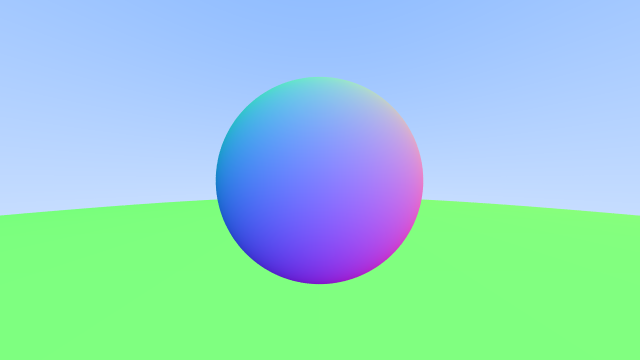
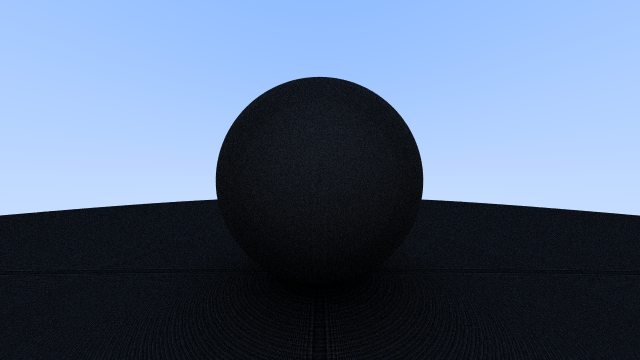
Implement random diffuse

diff --git a/src/main.rs b/src/main.rs
@@ -2,10 +2,9 @@ use std::fs::File;
 use std::io::BufWriter;
 use std::path::Path;
 
-use hooray::{Camera, Color, Point3, Sphere, World};
+use hooray::*;
 
 use indicatif::ProgressBar;
-use rand::random; // TODO: seeding
 
 fn main() {
     // image dimensions
@@ -13,6 +12,7 @@ fn main() {
     const HEIGHT: u32 = 360;
     const ASPECT_RATIO: f32 = WIDTH as f32 / HEIGHT as f32;
     const SAMPLES_PER_PIXEL: u32 = 100;
+    const MAX_DEPTH: u32 = 50;
 
     // prepare world
     let mut world = World::new();
@@ -32,10 +32,10 @@ fn main() {
         for col in 0..WIDTH {
             let mut pixel_color = Color::default();
             for _ in 0..SAMPLES_PER_PIXEL {
-                let u = (col as f32 + random::<f32>()) / (WIDTH - 1) as f32;
-                let v = (row as f32 + random::<f32>()) / (HEIGHT - 1) as f32;
+                let u = (col as f32 + random_float()) / (WIDTH - 1) as f32;
+                let v = (row as f32 + random_float()) / (HEIGHT - 1) as f32;
                 let ray = camera.get_ray(u, v);
-                pixel_color += ray.color(&world);
+                pixel_color += ray.color(&world, MAX_DEPTH);
             }
             data.extend(pixel_color.color_to_bytes(SAMPLES_PER_PIXEL));
 

diff --git a/src/vec3.rs b/src/vec3.rs
@@ -1,5 +1,7 @@
 use std::ops;
 
+use crate::random_between;
+
 #[derive(Default, Debug, PartialEq, Clone, Copy)] // TODO: is Copy ok?
 pub struct Vec3(f32, f32, f32);
 
@@ -9,6 +11,18 @@ pub type Color = Vec3; // TODO: omg this is too dangerous
 impl Vec3 {
     pub fn new(x: f32, y: f32, z: f32) -> Self {
         Self(x, y, z)
+    }
+
+    pub fn random_in_unit_sphere() -> Self {
+        loop {
+            let x = random_between(-1.0, 1.0);
+            let y = random_between(-1.0, 1.0);
+            let z = random_between(-1.0, 1.0);
+            let v = Vec3::new(x, y, z);
+            if v.length_squared() < 1.0 {
+                return v;
+            }
+        }
     }
 
     pub fn x(&self) -> f32 {

diff --git a/src/ray.rs b/src/ray.rs
@@ -23,9 +23,15 @@ impl Ray {
         self.origin + t * self.direction
     }
 
-    pub fn color(&self, world: &World) -> Color {
+    pub fn color(&self, world: &World, depth: u32) -> Color {
+        if depth == 0 {
+            return Color::default();
+        }
+
         if let Some(rec) = world.hit(self, 0.0, INF) {
-            return 0.5 * (rec.normal() + Color::new(1.0, 1.0, 1.0));
+            let target = rec.p() + rec.normal() + Vec3::random_in_unit_sphere();
+            let child_ray = Ray::new(rec.p(), target - rec.p());
+            return 0.5 * child_ray.color(&world, depth - 1);
         }
 
         let u = self.direction.unit();

diff --git a/src/lib.rs b/src/lib.rs
@@ -14,3 +14,11 @@ pub const PI: f32 = std::f32::consts::PI;
 pub fn degree_to_radian(degree: f32) -> f32 {
     degree * PI / 180.0
 }
+
+pub fn random_float() -> f32 {
+    rand::random()
+}
+
+pub fn random_between(min: f32, max: f32) -> f32 {
+    min + (max - min) * random_float()
+}

diff --git a/src/object.rs b/src/object.rs
@@ -8,6 +8,10 @@ pub struct HitRecord {
 }
 
 impl HitRecord {
+    pub fn p(&self) -> Point3 {
+        self.p
+    }
+
     pub fn normal(&self) -> Vec3 {
         self.normal
     }
